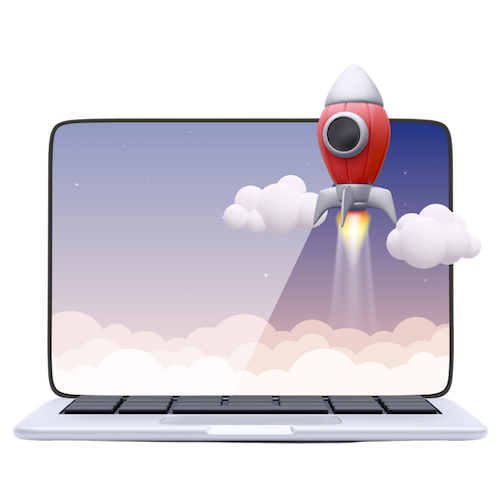
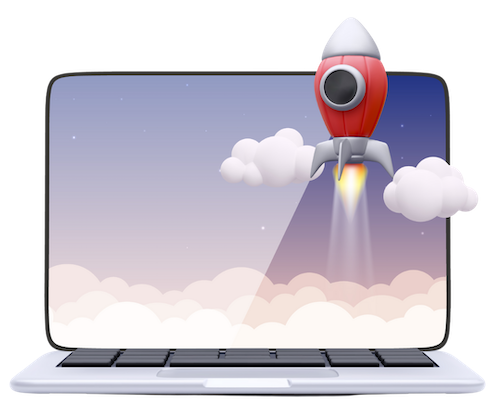
Apply blog posts display

Changed region(s): [[0.0, 0.0587, 0.998, 0.9682], [0.3024, 0.6748, 0.3629, 0.7335], [0.3629, 0.6748, 0.3931, 0.7042]]

diff --git a/components/more-stories.tsx b/components/more-stories.tsx
@@ -1,5 +1,6 @@
 import PostPreview from "./post-preview";
 import Post from "../types/post";
+import ProjectPreview from "./ProjectPreview";
 
 type Props = {
   posts: Post[];
@@ -8,12 +9,22 @@ type Props = {
 const MoreStories = ({ posts }: Props) => {
   return (
     <section>
-      <h2 className="mb-8 text-3xl md:text-3xl font-bold tracking-tighter leading-tight">
+      {/* <h2 className="mb-8 text-3xl md:text-3xl font-bold tracking-tighter leading-tight">
         More Stories
-      </h2>
-      <div className="grid grid-cols-1 md:grid-cols-2 md:gap-x-16 lg:gap-x-32 gap-y-20 md:gap-y-32 mb-32">
+      </h2> */}
+      {/* <div className="grid grid-cols-1 md:grid-cols-2 md:gap-x-16 lg:gap-x-32 gap-y-20 md:gap-y-32 mb-32"> */}
+      <div className=" flex flex-col lg:mx-40 md:gap-x-16 lg:gap-x-32  mb-32">
         {posts.map((post) => (
-          <PostPreview
+          // <PostPreview
+          //   key={post.slug}
+          //   title={post.title}
+          //   coverImage={post.coverImage}
+          //   date={post.date}
+          //   author={post.author}
+          //   slug={post.slug}
+          //   excerpt={post.excerpt}
+          // />
+          <ProjectPreview
             key={post.slug}
             title={post.title}
             coverImage={post.coverImage}
@@ -21,6 +32,8 @@ const MoreStories = ({ posts }: Props) => {
             author={post.author}
             slug={post.slug}
             excerpt={post.excerpt}
+            technologies={post.technologies}
+            className=" mb-32 "
           />
         ))}
       </div>

diff --git a/components/BlogPageHeader.tsx b/components/BlogPageHeader.tsx
@@ -14,8 +14,8 @@ type Props = {
 
 export default function BlogPageHeader({ projects }: Props) {
   return (
-    <div className="container mx-auto flex mb-24 pt-12 lg:pt-32 flex-col-reverse md:flex-row items-center">
-      <div className="lg:flex-grow md:w-1/2 lg:pl-24 md:pl-16 flex flex-col md:items-start md:text-left items-center text-center">
+    <div className="container lg:h-screen mx-auto flex flex-col-reverse md:flex-row items-center">
+      <div className=" lg:flex-grow md:w-1/2 lg:pl-24 md:pl-16 flex flex-col md:items-start md:text-left items-center text-center">
         <PostTitle weight="bold" size="4xl" level="h1" marginBottom="8">
           Check out my latest articles
         </PostTitle>
@@ -36,7 +36,7 @@ export default function BlogPageHeader({ projects }: Props) {
           </div>
         </div>
       </div>
-      <div className=" w-full lg:max-w-lg lg:w-full md:w-1/2 w-5/6 mb-10 md:mb-0">
+      <div className=" w-full lg:max-w-lg lg:w-full mb-10 md:mb-0">
         <img
           className="object-cover object-center rounded"
           src="../images/laptop2.png"

diff --git a/components/ProjectsPageHeader.tsx b/components/ProjectsPageHeader.tsx
@@ -15,7 +15,7 @@ type Props = {
 export default function ProjectPageHeader({ projects }: Props) {
   return (
     <div className="container mx-auto flex mb-24 py-2 lg:py-24 md:flex-row flex-col items-center">
-      <div className=" w-full lg:max-w-lg lg:w-full md:w-1/2 w-5/6 mb-10 md:mb-0">
+      <div className=" w-full lg:max-w-lg lg:w-full mb-10 md:mb-0">
         <img
           className="object-cover object-center rounded"
           src="../images/laptop.png"
